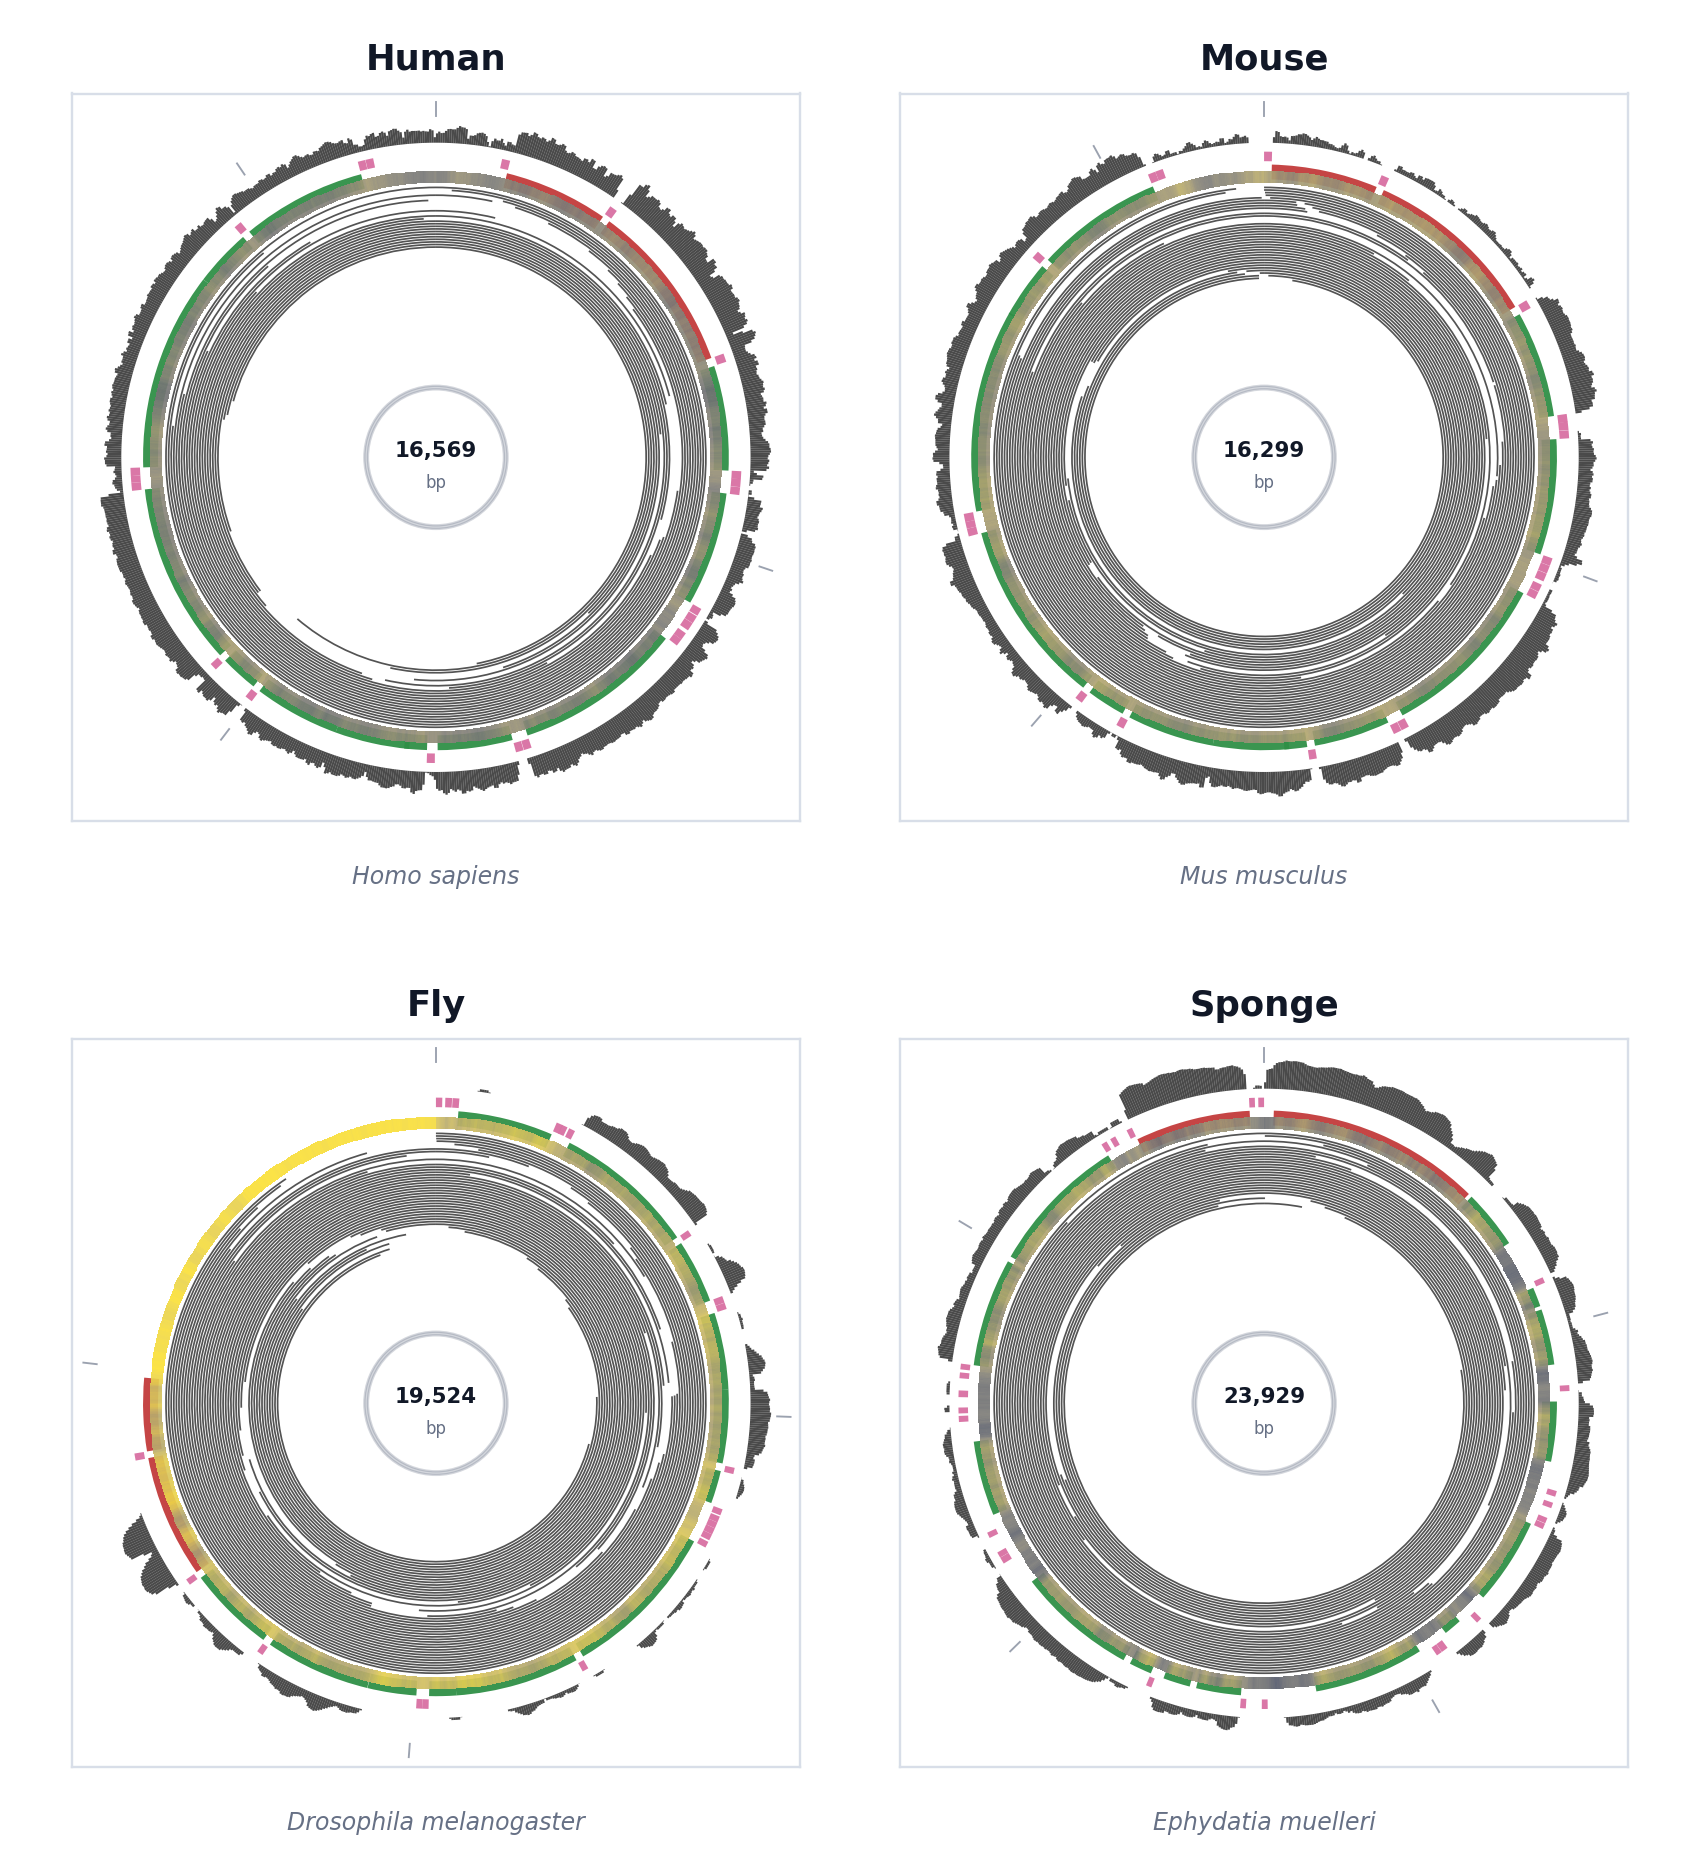
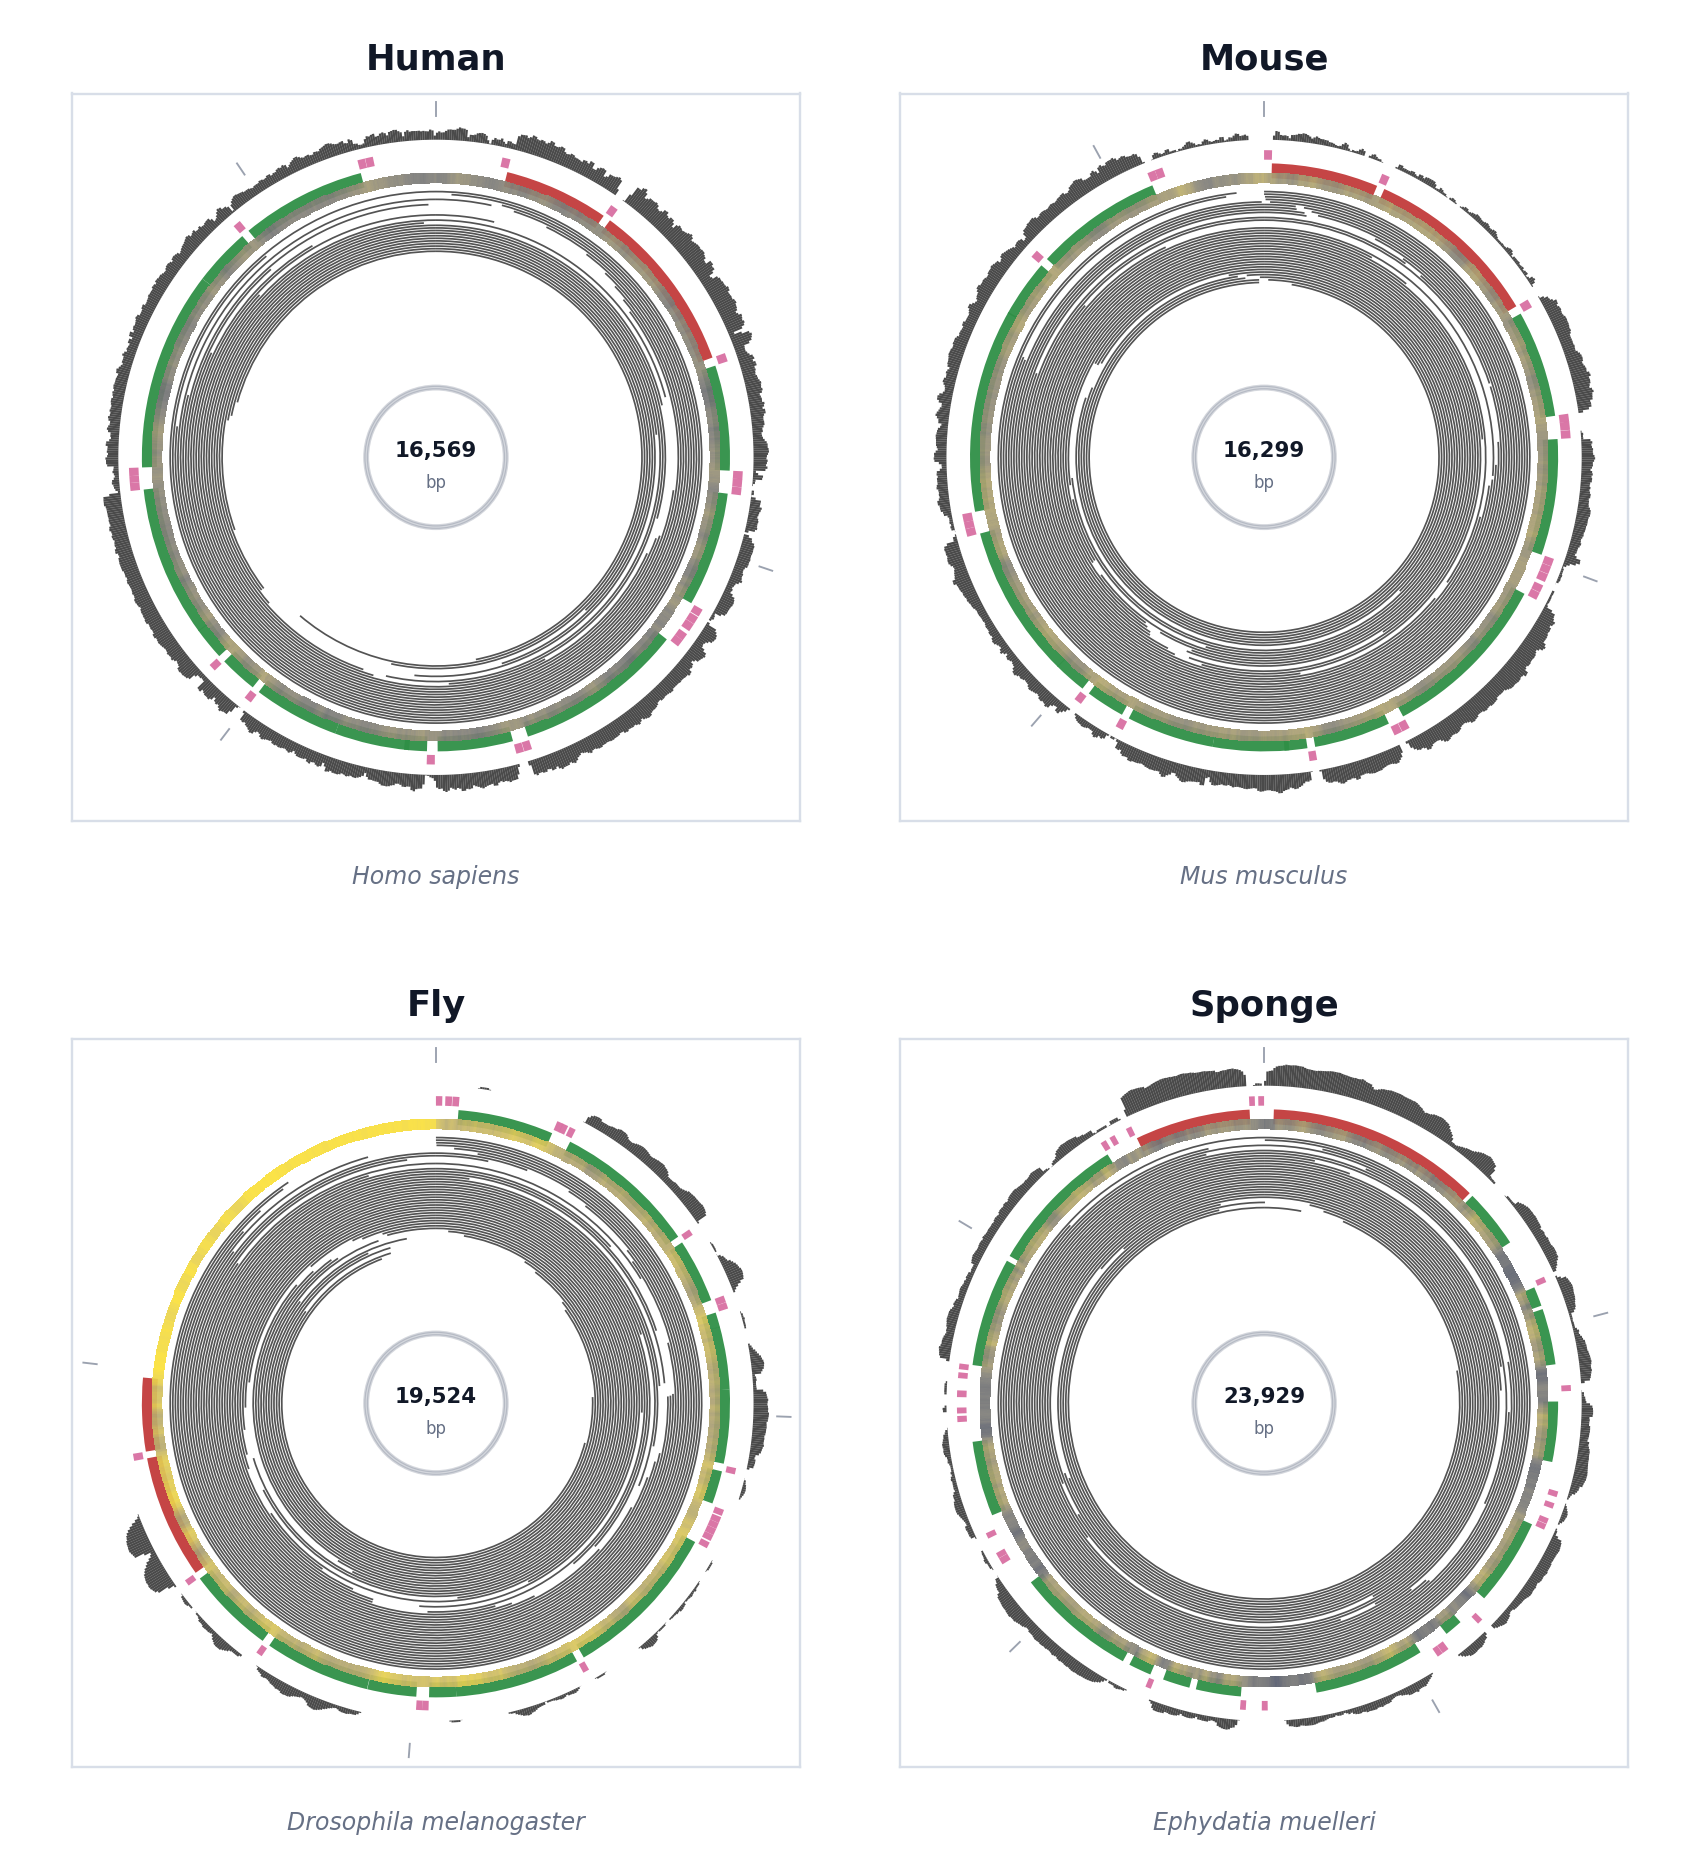
Tune README plot track spacing

diff --git a/scripts/build_readme_figure.py b/scripts/build_readme_figure.py
@@ -210,18 +210,18 @@ def draw_panel(ax, dataset_dir: Path, label: str, species: str, max_reads: int, 
         x1, y1 = 1.19 * np.cos(np.deg2rad(angle)), 1.19 * np.sin(np.deg2rad(angle))
         ax.plot([x0, x1], [y0, y1], color=tick_color, lw=0.8, alpha=0.65)
 
-    add_rnaseq_depth_track(ax, rnaseq_depth, length, 1.055, 0.105, rna_color)
+    add_rnaseq_depth_track(ax, rnaseq_depth, length, 1.065, 0.079, rna_color)
 
     for feature in parse_gff(dataset_dir / manifest["annotation"]):
         color = FEATURE_COLORS.get(str(feature["type"]), "#d08c35")
-        radius = 1.025 if feature["type"] == "tRNA" else 0.982
+        radius = 1.030 if feature["type"] == "tRNA" else 0.986
         width = 0.032 if feature["type"] == "tRNA" else 0.050
         add_arc(ax, int(feature["start"]), int(feature["stop"]), length, radius, width, color=color, alpha=0.95, linewidth=0)
 
-    add_at_track(ax, reference, 0.920, 0.962)
+    add_at_track(ax, reference, 0.918, 0.954)
 
     for row, (start, stop) in enumerate(read_spans(dataset_dir / manifest["bam"], length, max_reads)):
-        radius = 0.908 - (row * 0.0087)
+        radius = 0.894 - (row * 0.0087)
         add_arc(ax, start, stop, length, radius, 0.0058, color=read_color, alpha=0.72, linewidth=0)
 
     ax.text(0, 0.02, f"{length:,}", ha="center", va="center", color=fg, fontsize=9, fontweight="bold")